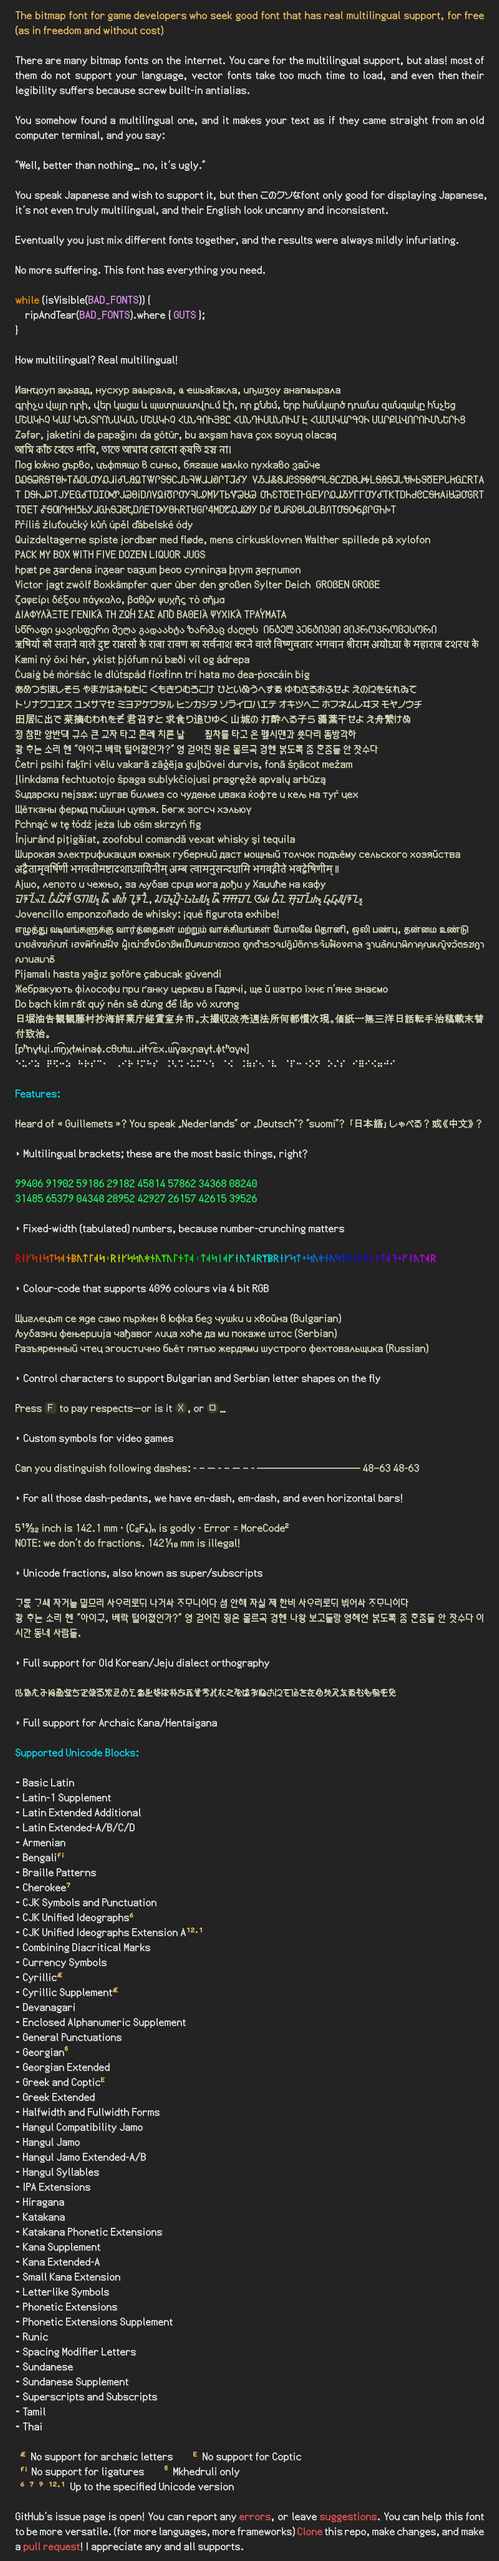
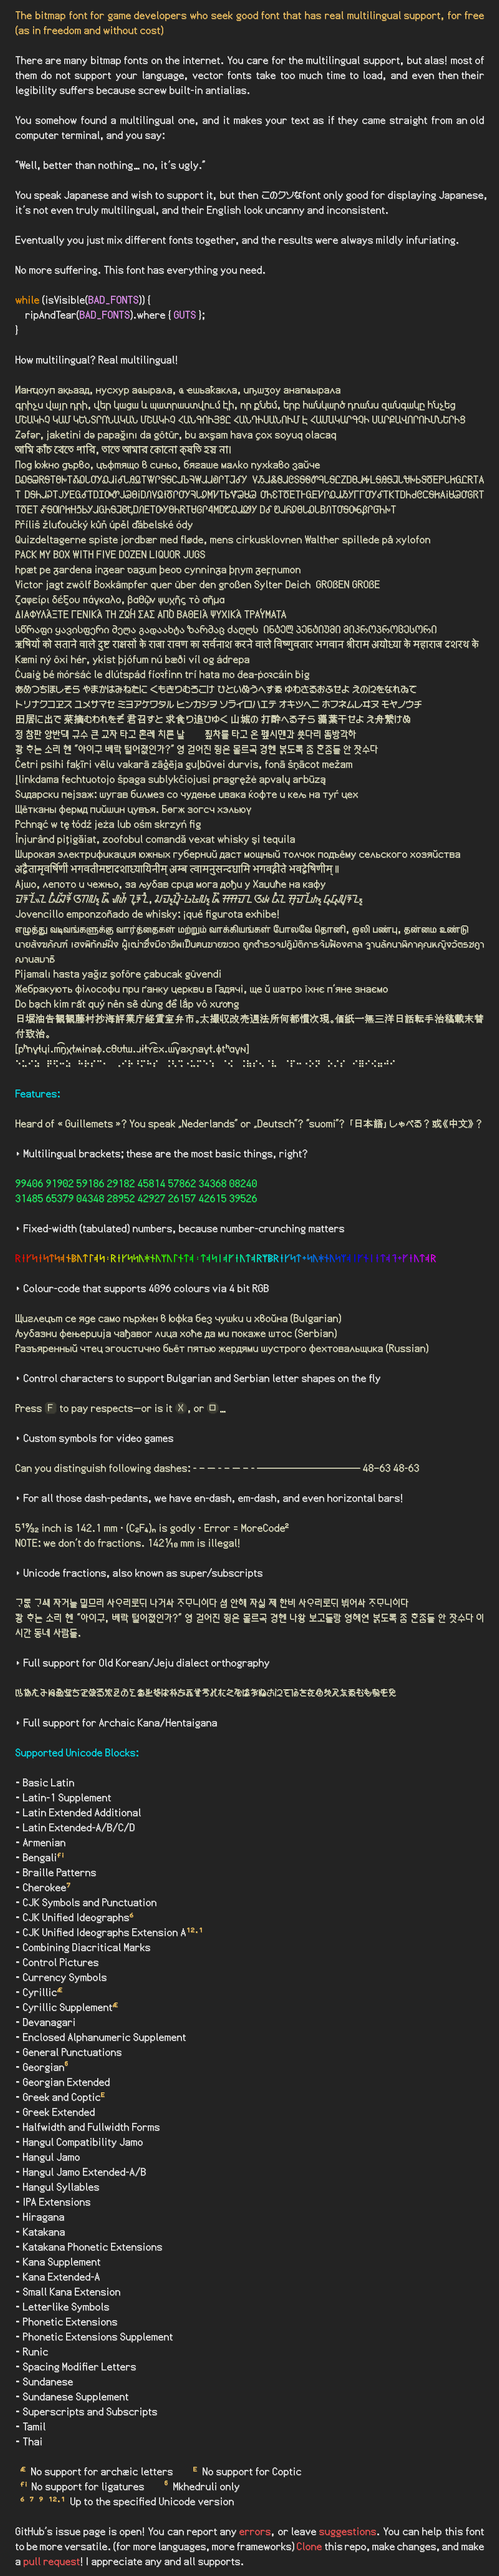
added control pictures unicode block

diff --git a/src/net/torvald/terrarumsansbitmap/gdx/TerrarumSansBitmap.kt b/src/net/torvald/terrarumsansbitmap/gdx/TerrarumSansBitmap.kt
@@ -886,6 +886,7 @@ class TerrarumSansBitmap(
             SHEET_CODESTYLE_ASCII_VARW -> codestyleAsciiIndexY(ch)
             SHEET_ALPHABETIC_PRESENTATION_FORMS -> alphabeticPresentationFormsY(ch)
             SHEET_HENTAIGANA_VARW -> hentaiganaIndexY(ch)
+            SHEET_CONTROL_PICTURES_VARW -> controlPicturesIndexY(ch)
             else -> ch / 16
         }
 
@@ -2600,6 +2601,7 @@ class TerrarumSansBitmap(
         internal const val SHEET_CODESTYLE_ASCII_VARW = 37
         internal const val SHEET_ALPHABETIC_PRESENTATION_FORMS = 38
         internal const val SHEET_HENTAIGANA_VARW = 39
+        internal const val SHEET_CONTROL_PICTURES_VARW = 40
 
         internal const val SHEET_UNKNOWN = 254
 
@@ -2666,6 +2668,7 @@ class TerrarumSansBitmap(
             "pua_codestyle_ascii_variable.tga",
             "alphabetic_presentation_forms_extrawide_variable.tga",
             "hentaigana_variable.tga",
+            "control_pictures_variable.tga",
         )
         internal val codeRange = arrayOf( // MUST BE MATCHING WITH SHEET INDICES!!
             0..0xFF, // SHEET_ASCII_VARW
@@ -2708,6 +2711,7 @@ class TerrarumSansBitmap(
             0xF0520..0xF057F, // SHEET_CODESTYLE_ASCII_VARW
             0xFB00..0xFB17, // SHEET_ALPHABETIC_PRESENTATION_FORMS
             0x1B000..0x1B16F, // SHEET_HENTAIGANA_VARW
+            0x2400..0x243F, // SHEET_CONTROL_PICTURES_VARW
         )
         private val codeRangeHangulCompat = 0x3130..0x318F
 
@@ -3056,6 +3060,7 @@ class TerrarumSansBitmap(
         private fun codestyleAsciiIndexY(c: CodePoint) = (c - 0xF0520) / 16
         private fun alphabeticPresentationFormsY(c: CodePoint) = (c - 0xFB00) / 16
         private fun hentaiganaIndexY(c: CodePoint) = (c - 0x1B000) / 16
+        private fun controlPicturesIndexY(c: CodePoint) = (c - 0x2400) / 16
 
         val charsetOverrideDefault = Character.toChars(CHARSET_OVERRIDE_DEFAULT).toSurrogatedString()
         val charsetOverrideBulgarian = Character.toChars(CHARSET_OVERRIDE_BG_BG).toSurrogatedString()

diff --git a/OTFbuild/sheet_config.py b/OTFbuild/sheet_config.py
@@ -70,6 +70,7 @@ SHEET_DEVANAGARI2_INTERNAL_VARW = 36
 SHEET_CODESTYLE_ASCII_VARW = 37
 SHEET_ALPHABETIC_PRESENTATION_FORMS = 38
 SHEET_HENTAIGANA_VARW = 39
+SHEET_CONTROL_PICTURES_VARW = 40
 
 SHEET_UNKNOWN = 254
 
@@ -114,6 +115,7 @@ FILE_LIST = [
     "pua_codestyle_ascii_variable.tga",
     "alphabetic_presentation_forms_extrawide_variable.tga",
     "hentaigana_variable.tga",
+    "control_pictures_variable.tga",
 ]
 
 CODE_RANGE = [
@@ -157,6 +159,7 @@ CODE_RANGE = [
     list(range(0xF0520, 0xF0580)),                                                  # 37: Codestyle ASCII
     list(range(0xFB00, 0xFB18)),                                                    # 38: Alphabetic Presentation
     list(range(0x1B000, 0x1B170)),                                                  # 39: Hentaigana
+    list(range(0x2400, 0x2440)),                                                    # 40: Control Pictures
 ]
 
 CODE_RANGE_HANGUL_COMPAT = range(0x3130, 0x3190)
@@ -531,5 +534,6 @@ def index_y(sheet_index, c):
         SHEET_CODESTYLE_ASCII_VARW: lambda: (c - 0xF0520) // 16,
         SHEET_ALPHABETIC_PRESENTATION_FORMS: lambda: (c - 0xFB00) // 16,
         SHEET_HENTAIGANA_VARW: lambda: (c - 0x1B000) // 16,
+        SHEET_CONTROL_PICTURES_VARW: lambda: (c - 0x2400) // 16,
         SHEET_HANGUL: lambda: 0,
     }.get(sheet_index, lambda: c // 16)()

diff --git a/OTFbuild/hangul.py b/OTFbuild/hangul.py
@@ -16,7 +16,7 @@ import sheet_config as SC
 
 # PUA range for Hangul jamo variant storage.
 # We need space for: max_col * max_row variants.
-# Using 0xF0600-0xF0FFF (2560 slots, more than enough).
+# Using 0xF0600-0xF1E7F
 HANGUL_PUA_BASE = 0xF0600
 
 
